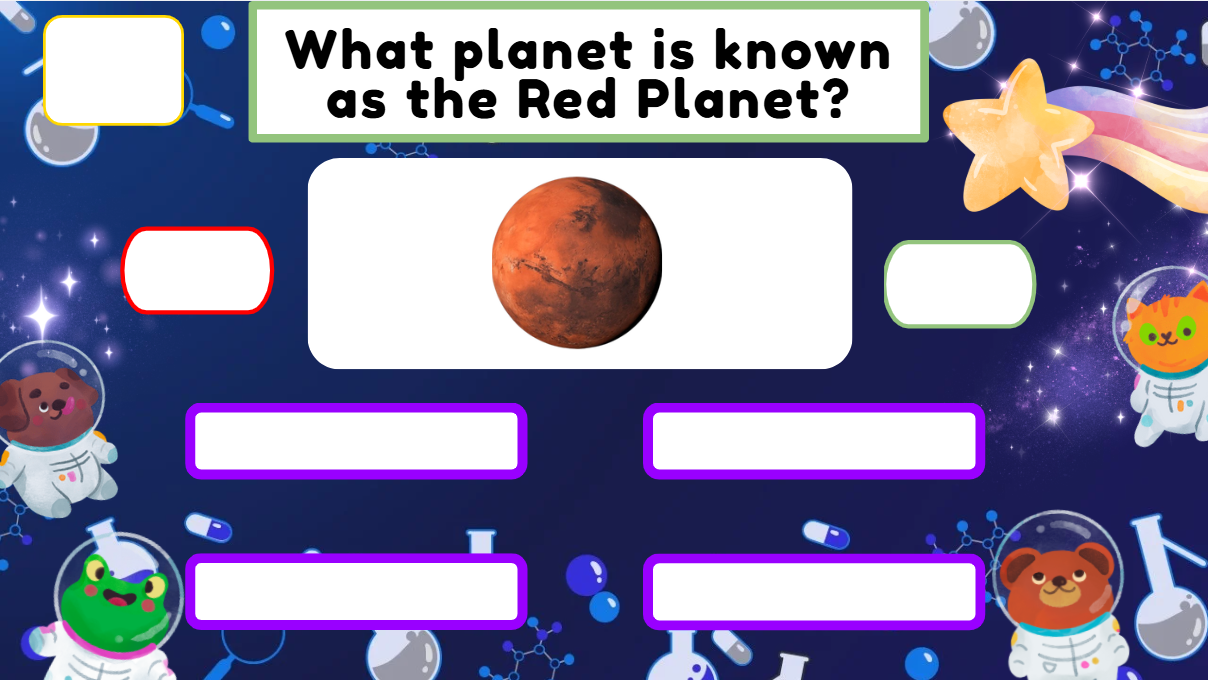
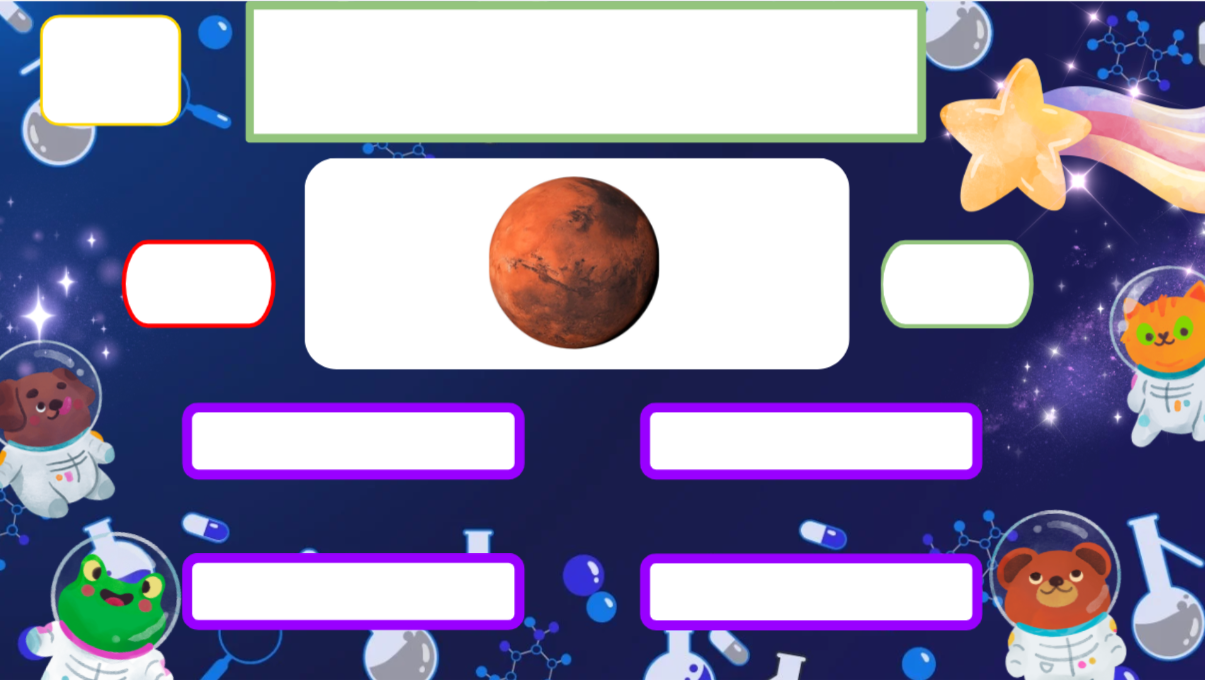
adding buttons to next window and fixing background

diff --git a/main.py b/main.py
@@ -104,11 +104,105 @@ def open_next_window(): #create next window
     new_window.title("Quiz Main Questions Page") #assign a name to window
     new_window.geometry("1225x690")
     new_window.resizable(False, False)
-    next_img = Image.open("Images/q1.png") #open background image for first question
-    next_photo = ImageTk.PhotoImage(next_img) #convert image to a format tkinter can use
-    img_label = tk.Label(new_window, image=next_photo) #create a label widget to display background image
-    img_label.image = next_photo #reference image
-    img_label.pack(pady=10) #add padding to main window
+
+    bg_image = Image.open("Images/q1.png") #open background image for first question
+    bg_photo = ImageTk.PhotoImage(bg_image) #convert image to a format tkinter can use
+    bg_label = tk.Label(new_window, image=bg_photo) #create a label widget to display background image
+    bg_label.image = bg_photo #reference image
+    bg_label.place(x=0, y=0, relwidth=1, relheight=1)
+
+    question_label = tk.Label(
+        new_window,
+        text="Question 1",
+        font=("Fredoka", 50, "bold"),
+        fg="black",
+        bg="white",
+    )
+
+    question_label.place(x=280, y=30, width=600, height=80)
+
+    progress_label = tk.Label(
+        new_window,
+        text="1/30",
+        font=("Fredoka", 42, "bold"),
+        fg="black",
+        bg="white"
+    )
+
+    progress_label.place(x=58, y=43, width=120, height=70)
+
+    exit_btn = tk.Button(
+        new_window,
+        text="QUIT",
+        font=("Fredoka", 25, "bold"),
+        fg="black",
+        bg="white",
+        relief="flat",
+        cursor="hand2"
+    )
+
+    exit_btn.place(x=158, y=255, width=100, height=70)
+
+    submit_btn = tk.Button(
+        new_window,
+        text="SUBMIT",
+        font=("Fredoka", 25, "bold"),
+        fg="black",
+        bg="white",
+        relief="flat",
+        cursor="hand2"
+    )
+
+    submit_btn.place(x=905, y=255, width=120, height=70)
+
+    answer1 = tk.Button(
+        new_window,
+        text="Answer 1",
+        font=("Fredoka", 14),
+        fg="black",
+        bg="white",
+        relief="flat",
+        cursor="hand2"
+    )
+
+    answer1.place(x=190, y=405, width=320, height=60)
+
+    answer2 = tk.Button(
+        new_window,
+        text="Answer 2",
+        font=("Fredoka", 14),
+        fg="black",
+        bg="white",
+        relief="flat",
+        cursor="hand2"
+    )
+
+    answer2.place(x=650, y=405, width=320, height=60)
+
+    answer3 = tk.Button(
+        new_window,
+        text="Answer 3",
+        font=("Fredoka", 14),
+        fg="black",
+        bg="white",
+        relief="flat",
+        cursor="hand2"
+    )
+
+    answer3.place(x=190, y=555, width=320, height=60)
+
+    answer4 = tk.Button(
+        new_window,
+        text="Answer 4",
+        font=("Fredoka", 14),
+        fg="black",
+        bg="white",
+        relief="flat",
+        cursor="hand2"
+    )
+
+    answer4.place(x=650, y=555, width=320, height=60)
+
 
 
     root.withdraw() #hide the window
